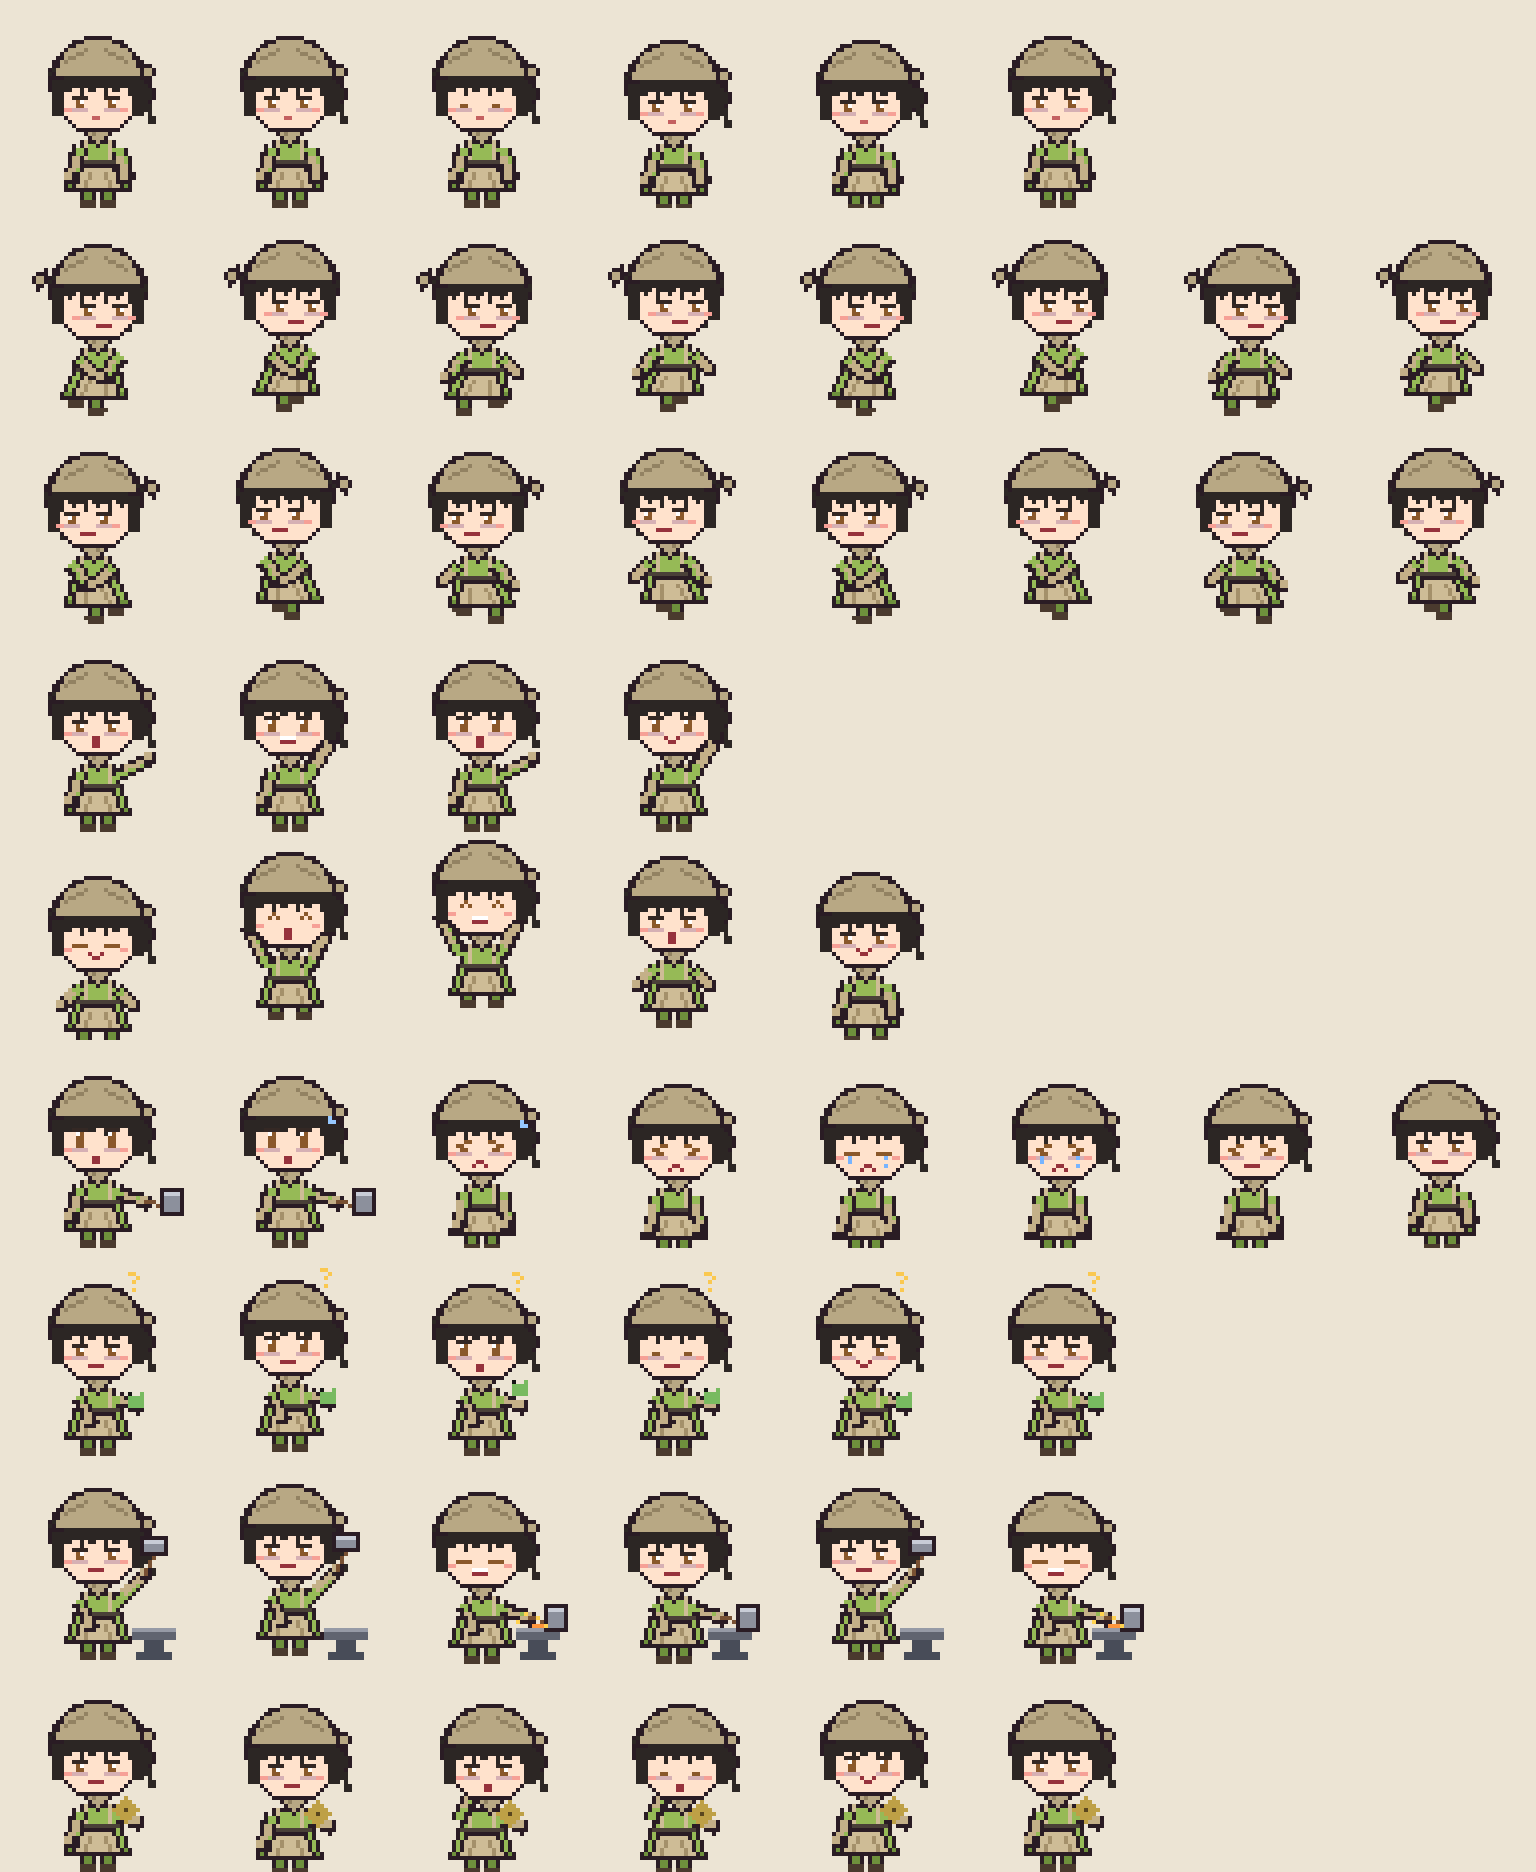
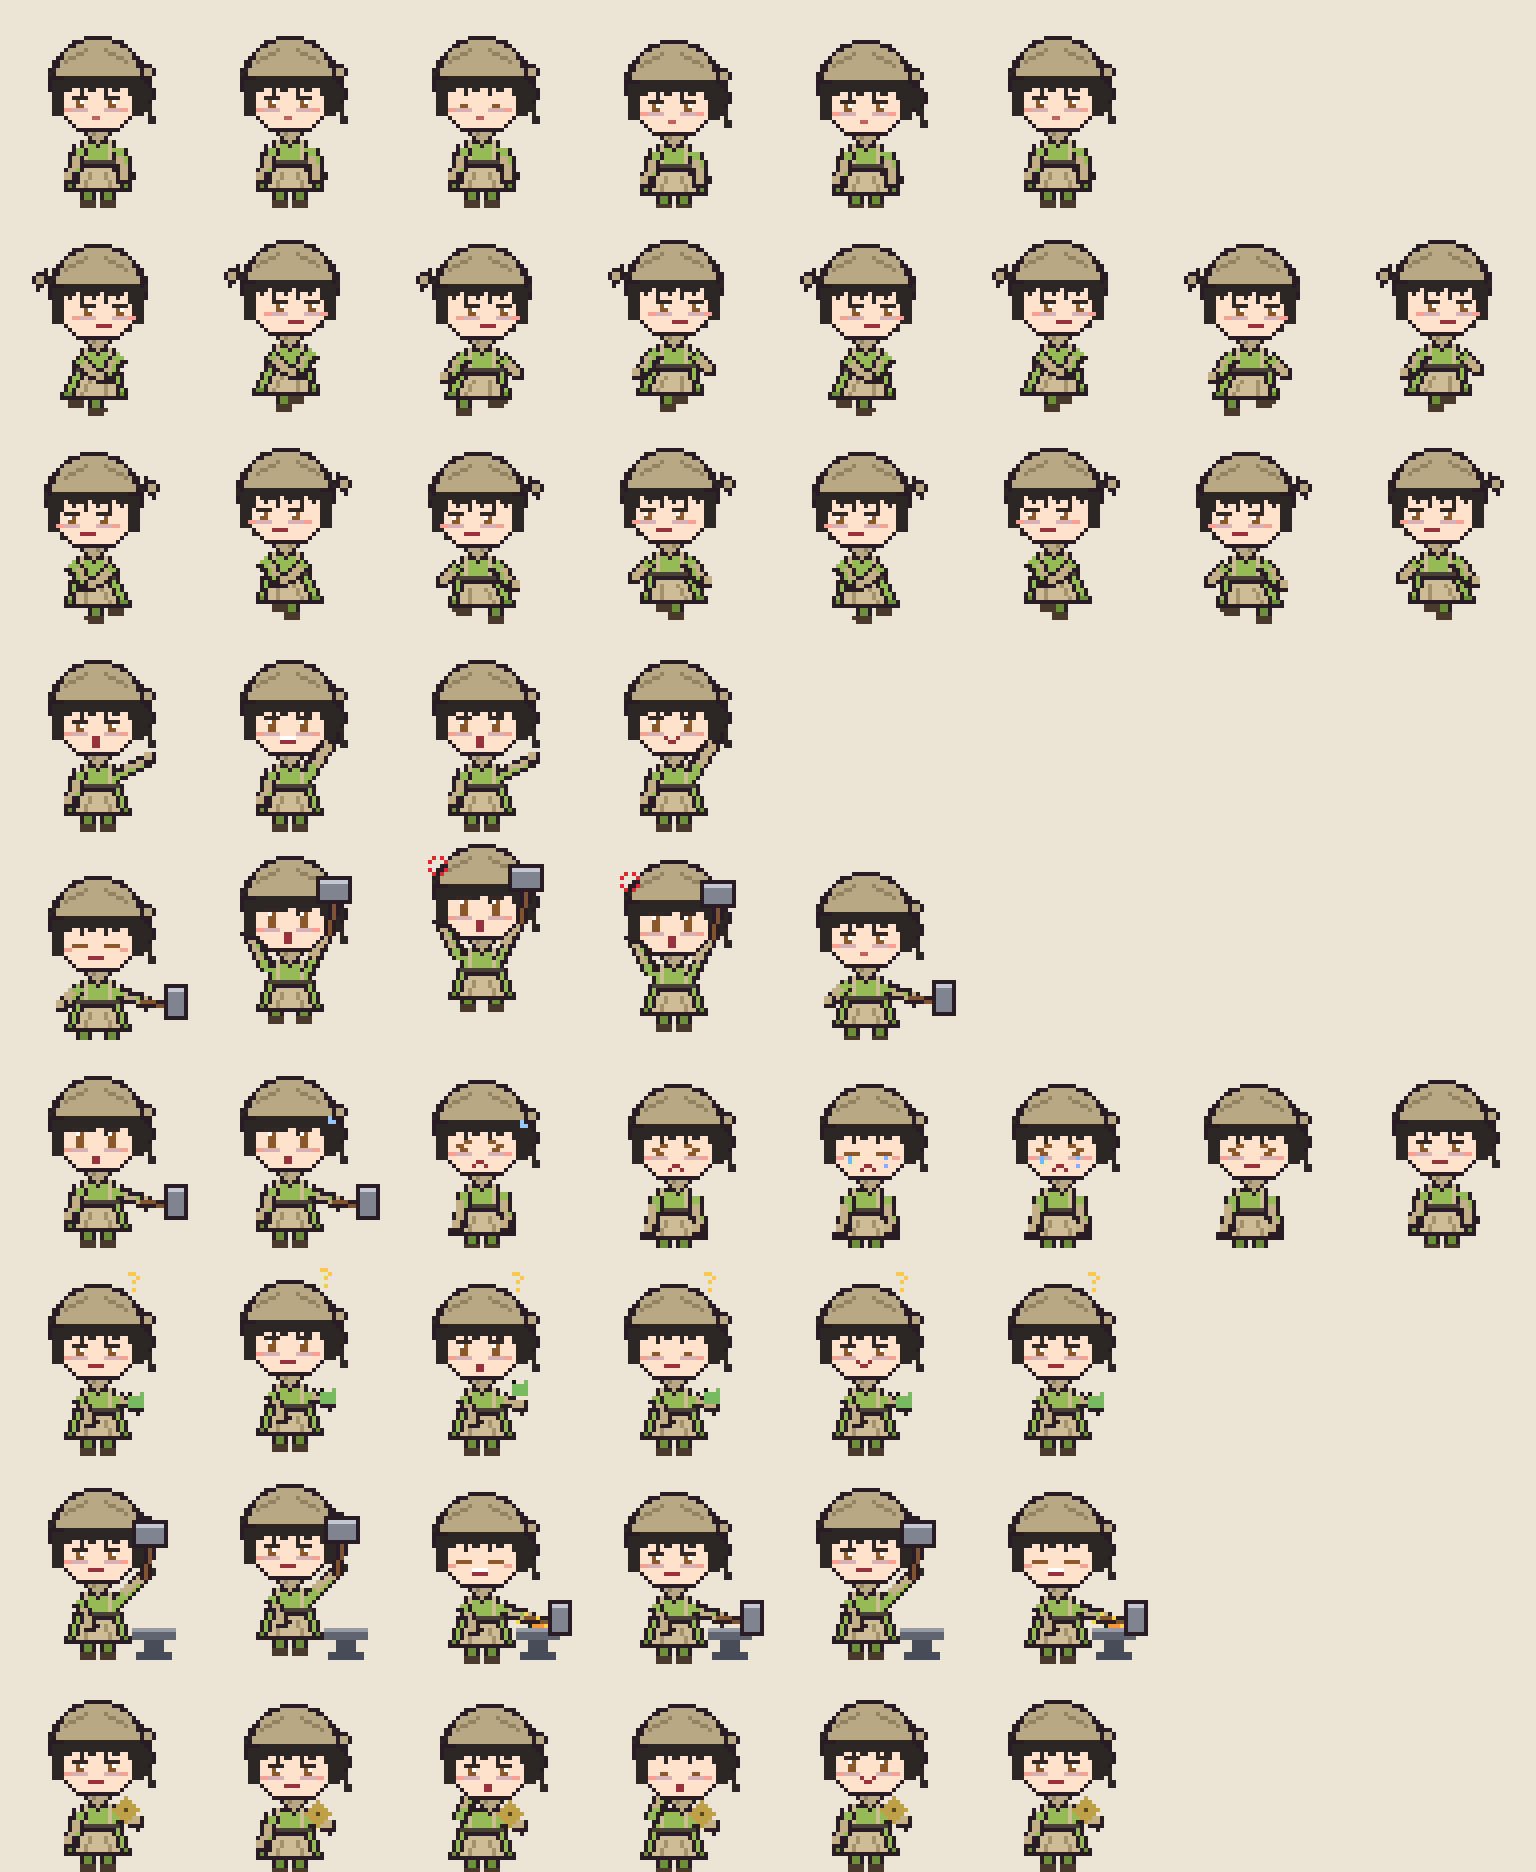
小竹加上大鐵鎚歡呼動作與「裂骨魔」戰鬥造型，網頁可切換造型
Claude-Session: https://claude.ai/code/session_014Ug96dnPv181rpAqSNBU9C

diff --git a/index.html b/index.html
@@ -120,6 +120,7 @@
         <strong id="name"></strong>
         <span id="title"></span>
       </div>
+      <div class="chips" id="outfits" style="margin-top:8px"></div>
       <div class="aff">
         <div class="aff-bar"><div class="aff-fill" id="affFill"></div></div>
         <div class="aff-text"><span id="tier"></span><span id="affNum"></span></div>
@@ -201,7 +202,8 @@
   function loadSave() {
     try { return JSON.parse(localStorage.getItem("mortal-pets") || "{}"); } catch { return {}; }
   }
-  const store = Object.assign({ current: "xiaomei", aff: {} }, loadSave());
+  const store = Object.assign({ current: "xiaomei", aff: {}, outfit: {} }, loadSave());
+  store.outfit = store.outfit || {};
   function persist() {
     try { localStorage.setItem("mortal-pets", JSON.stringify(store)); } catch {}
   }
@@ -328,16 +330,29 @@
     document.documentElement.style.setProperty("--char", c.color);
     document.documentElement.style.setProperty("--char-soft", c.color + "22");
     document.querySelectorAll("#tabs .tab").forEach((t) => t.setAttribute("aria-selected", t.dataset.id === id));
-    sprite.style.backgroundImage = `url(codex/pets/${id}/spritesheet.webp)`;
+    const outfits = c.outfits || [{ id, name: "" }];
+    const petId = outfits.some((o) => o.id === store.outfit[id]) ? store.outfit[id] : outfits[0].id;
+    sprite.style.backgroundImage = `url(codex/pets/${petId}/spritesheet.webp)`;
+    const ob = $("outfits");
+    ob.innerHTML = "";
+    ob.hidden = outfits.length < 2;
+    outfits.forEach((o) => {
+      const b = document.createElement("button");
+      b.className = "chip";
+      b.textContent = o.name;
+      b.setAttribute("aria-pressed", o.id === petId);
+      b.onclick = () => { store.outfit[id] = o.id; persist(); select(id); };
+      ob.append(b);
+    });
     sprite.style.transition = "none";
     sprite.style.left = "50%";
     requestAnimationFrame(() => { sprite.style.transition = ""; });
     $("name").textContent = `${c.name}（${c.fullName}）`;
     $("title").textContent = c.title;
     $("tagline").textContent = c.tagline;
-    $("petPath").textContent = `mortal-pets/codex/pets/${id}/`;
-    $("petJson").href = `codex/pets/${id}/pet.json`;
-    $("petSheet").href = `codex/pets/${id}/spritesheet.webp`;
+    $("petPath").textContent = `mortal-pets/codex/pets/${petId}/`;
+    $("petJson").href = `codex/pets/${petId}/pet.json`;
+    $("petSheet").href = `codex/pets/${petId}/spritesheet.webp`;
     const ul = $("profile");
     ul.innerHTML = "";
     c.profile.forEach((p) => {

diff --git a/claude-plugin/mortal-buddy/scripts/characters.js b/claude-plugin/mortal-buddy/scripts/characters.js
@@ -119,6 +119,10 @@
       fullName: "郁竹",
       title: "崆峒鐵拳門嫡傳女弟子・人稱「裂骨魔」",
       tagline: "身形嬌小、力大無窮；眼神兇是因為近視又沒睡。",
+      outfits: [
+        { id: "xiaozhu", name: "日常・鐵匠" },
+        { id: "xiaozhu-battle", name: "裂骨魔" }
+      ],
       color: "#3e6b47",
       accent: "#8c5c3a",
       profile: [

diff --git a/tools/build_sprites.py b/tools/build_sprites.py
@@ -85,6 +85,14 @@ CHARACTERS = {
     },
 }
 
+# 小竹・裂骨魔：同一個人，換上鐵網護甲、虎紋背帶、虎頭面具與機關臂，背著刻紅紋的大刀
+CHARACTERS["xiaozhu-battle"] = {
+    **CHARACTERS["xiaozhu"],
+    "displayName": "小竹・裂骨魔",
+    "description": "郁竹的戰鬥裝束：鐵網護甲、虎紋背帶、腰掛虎頭面具，機關臂扛著刻了紅紋的大刀。平常睏睏的，掄起兵器就是「裂骨魔」。（活俠傳同人）",
+    "battle": True,
+}
+
 
 def P(**kw):
     base = dict(dy=0, dx=0, eyes=None, mouth="smile", arms=("down", "down"),
@@ -131,6 +139,7 @@ ARM_HANDS = {
     "brow": ((4, -9), (-4, -9)),
     "hold": ((5, 2), (5, 2)),
     "hammer_up": ((7, -7), (7, -7)),
+    "fist_up": ((-5, -10), (5, -10)),
     "hammer_down": ((7, 3), (7, 3)),
     "stir_a": ((5, 5), (3, 6)),
     "stir_b": ((7, 4), (5, 7)),
@@ -155,6 +164,17 @@ def draw_frame(cid, pose):
     hy = 19 + dy
     sx_l, sx_r, sy = 19 + dx, 29 + dx, 35 + dy  # 肩膀
     hip_y = 44 + dy
+
+    battle = c.get("battle", False)
+    holds_weapon = bool(pose["prop"]) and pose["prop"][0] == "hammer"
+    if battle and not holds_weapon:
+        # 斜背在身後的大刀，刀柄在右腰
+        p.line([(37 + dx, 41 + dy), (9 + dx, 9 + dy)], OUTLINE, 5)
+        p.line([(37 + dx, 41 + dy), (9 + dx, 9 + dy)], (176, 178, 186, 255), 3)
+        p.line([(36 + dx, 41 + dy), (8 + dx, 9 + dy)], (226, 228, 234, 255), 1)
+        for k in range(3):
+            p.px(14 + dx + k * 3, 15 + dy + k * 3, (200, 40, 40, 255))
+        p.line([(37 + dx, 41 + dy), (41 + dx, 45 + dy)], (60, 58, 62, 255), 3)
 
     # 後髮
     sway = pose["hair_sway"]
@@ -227,6 +247,25 @@ def draw_frame(cid, pose):
         p.line([(26 + dx, 41 + dy), (27 + dx + flare, 44 + dy)], c["accent_sh"])
         p.rect(19 + dx, 38 + dy, 29 + dx, 38 + dy, c["belt"])
 
+    if battle:
+        # 鐵網護甲
+        p.rect(20 + dx, 33 + dy, 28 + dx, 38 + dy, (198, 182, 140, 255))
+        for gx in range(20, 29, 2):
+            p.line([(gx + dx, 33 + dy), (gx + dx, 38 + dy)], (96, 86, 70, 255))
+        for gy in range(33, 39, 2):
+            p.line([(20 + dx, gy + dy), (28 + dx, gy + dy)], (96, 86, 70, 255))
+        # 虎紋背帶
+        p.line([(19 + dx, 33 + dy), (29 + dx, 41 + dy)], (232, 160, 40, 255), 2)
+        for k in (1, 4, 7):
+            p.px(19 + dx + k + 1, 33 + dy + k, (30, 24, 20, 255))
+        # 左腰的虎頭面具
+        mx0, my0 = 13 + dx, 39 + dy
+        p.rect(mx0 - 1, my0 - 1, mx0 + 5, my0 + 5, OUTLINE)
+        p.rect(mx0, my0, mx0 + 4, my0 + 4, (214, 132, 60, 255))
+        p.px(mx0 + 1, my0 + 1, (30, 24, 20, 255)); p.px(mx0 + 3, my0 + 1, (30, 24, 20, 255))
+        p.line([(mx0 + 1, my0 + 3), (mx0 + 3, my0 + 3)], (120, 60, 30, 255))
+        p.px(mx0, my0 - 1, (214, 132, 60, 255)); p.px(mx0 + 4, my0 - 1, (214, 132, 60, 255))
+
     # 手臂
     al, ar = pose["arms"]
 
@@ -239,8 +278,9 @@ def draw_frame(cid, pose):
         hand = c["skin"]
         if "glove" in c:  # 短袖，前臂到手掌是長手套
             mx, my = (sx * 2 + ex) // 3, (sy * 2 + ey) // 3
-            p.line([(mx, my), (ex, ey)], c["glove"], 2)
-            hand = c["glove"]
+            metal = c.get("battle") and side == 1
+            p.line([(mx, my), (ex, ey)], (128, 124, 116, 255) if metal else c["glove"], 2)
+            hand = (204, 164, 70, 255) if metal else c["glove"]
         p.rect(ex - 1, ey - 1, ex + 1, ey + 1, OUTLINE)
         p.rect(ex - 1, ey - 1, ex, ey, hand)
         return ex, ey
@@ -370,19 +410,32 @@ def draw_frame(cid, pose):
     prop = pose["prop"]
     if prop:
         kind = prop[0]
-        if kind == "hammer":
+        if kind == "hammer" and battle:
+            # 大刀：舉起時刀尖朝上，劈下時朝右下
+            x, y = hand_r
+            tip = (x + 3, max(1, y - 17)) if prop[1] == "up" else (min(46, x + 10), y + 7)
+            p.line([(x, y), tip], OUTLINE, 5)
+            p.line([(x, y), tip], (176, 178, 186, 255), 3)
+            p.line([(x + 1, y), (tip[0] + 1, tip[1])], (226, 228, 234, 255), 1)
+            mx_, my_ = (x + tip[0]) // 2, (y + tip[1]) // 2
+            p.px(mx_, my_, (200, 40, 40, 255)); p.px(mx_ + (1 if prop[1] == "up" else -1), my_ + 2, (200, 40, 40, 255))
+            p.rect(x - 1, y - 1, x + 1, y + 1, (204, 164, 70, 255))
+        elif kind == "hammer":
             # prop[1] = 'up' / 'down'
+            wood, iron, shine = (128, 84, 50, 255), (128, 132, 144, 255), (196, 200, 210, 255)
             x, y = hand_r
             if prop[1] == "up":
-                p.line([(x, y), (x + 2, y - 5)], (120, 80, 50, 255), 1)
-                p.rect(x - 1, y - 9, x + 5, y - 5, OUTLINE)
-                p.rect(x, y - 8, x + 4, y - 6, (140, 144, 156, 255))
-                p.line([(x, y - 8), (x + 4, y - 8)], (200, 204, 214, 255))
+                p.line([(x, y + 1), (x + 1, y - 7)], OUTLINE, 3)
+                p.line([(x, y + 1), (x + 1, y - 7)], wood, 1)
+                p.rect(x - 3, y - 13, x + 5, y - 7, OUTLINE)
+                p.rect(x - 2, y - 12, x + 4, y - 8, iron)
+                p.line([(x - 2, y - 12), (x + 4, y - 12)], shine)
             else:
-                p.line([(x, y), (x + 5, y + 1)], (120, 80, 50, 255), 1)
-                p.rect(x + 4, y - 3, x + 9, y + 3, OUTLINE)
-                p.rect(x + 5, y - 2, x + 8, y + 2, (140, 144, 156, 255))
-                p.line([(x + 5, y - 2), (x + 8, y - 2)], (200, 204, 214, 255))
+                p.line([(x - 1, y), (x + 6, y + 1)], OUTLINE, 3)
+                p.line([(x - 1, y), (x + 6, y + 1)], wood, 1)
+                p.rect(x + 5, y - 4, x + 10, y + 4, OUTLINE)
+                p.rect(x + 6, y - 3, x + 9, y + 3, iron)
+                p.line([(x + 6, y - 3), (x + 9, y - 3)], shine)
         elif kind == "pot":
             ax, y0 = 36 + dx, 41 + dy
             p.rect(ax - 5, y0, ax + 4, y0 + 5, (70, 60, 60, 255))
@@ -434,6 +487,11 @@ def draw_frame(cid, pose):
             col = (240, 80, 110, 255)
             for ox, oy in ((0, 0), (2, 0), (-1, 1), (0, 1), (1, 1), (2, 1), (3, 1), (0, 2), (1, 2), (2, 2), (1, 3)):
                 p.px(x + ox, y + oy, col)
+        elif f == "anger":  # 生氣記號，貼在頭的左上
+            x, y = hx - 13, hy - 9
+            col = (220, 40, 50, 255)
+            for ox, oy in ((0, 1), (1, 0), (3, 0), (4, 1), (0, 3), (1, 4), (3, 4), (4, 3)):
+                p.px(x + ox, y + oy, col)
         elif f == "q":  # 等待：頭上小問號（貼著頭頂）
             x, y = hx + 8, hy - 15
             col = (250, 200, 80, 255)
@@ -475,13 +533,23 @@ def poses_for(cid):
         P(arms=("down", "wave_up"), mouth="smile", eyes="wink" if mei else "open", blush=not mei),
     ]
     # 4 jumping：預備、起跳、頂點、落下、站穩
-    rows["jumping"] = [
-        P(dy=2, legs="crouch", arms=("hip", "hip"), eyes="closed"),
-        P(dy=-4, legs="tuck", arms=("up", "up"), mouth="open", eyes="happy"),
-        P(dy=-7, legs="tuck", arms=("up", "up"), mouth="grin", eyes="happy", fx=("heart",) if mei else ()),
-        P(dy=-3, legs="stand", arms=("hip", "hip"), mouth="open"),
-        P(dy=1, legs="crouch", arms=("down", "down"), mouth="smile"),
-    ]
+    if mei:
+        rows["jumping"] = [
+            P(dy=2, legs="crouch", arms=("hip", "hip"), eyes="closed"),
+            P(dy=-4, legs="tuck", arms=("up", "up"), mouth="open", eyes="happy"),
+            P(dy=-7, legs="tuck", arms=("up", "up"), mouth="grin", eyes="happy", fx=("heart",)),
+            P(dy=-3, legs="stand", arms=("hip", "hip"), mouth="open"),
+            P(dy=1, legs="crouch", arms=("down", "down"), mouth="smile"),
+        ]
+    else:
+        # 依官方圖：一手握拳、一手高舉大鐵鎚，張嘴大喊
+        rows["jumping"] = [
+            P(dy=2, legs="crouch", arms=("hip", "hammer_down"), prop=("hammer", "down"), eyes="closed", mouth="flat"),
+            P(dy=-3, legs="tuck", arms=("up", "fist_up"), prop=("hammer", "up"), eyes="wide", mouth="open"),
+            P(dy=-6, legs="tuck", arms=("up", "fist_up"), prop=("hammer", "up"), eyes="wide", mouth="open", fx=("anger",)),
+            P(dy=-2, legs="stand", arms=("up", "fist_up"), prop=("hammer", "up"), eyes="wide", mouth="open", fx=("anger",)),
+            P(dy=1, legs="crouch", arms=("hip", "hammer_down"), prop=("hammer", "down"), eyes="drowsy", mouth="small"),
+        ]
     # 5 failed
     if mei:
         rows["failed"] = [
@@ -578,7 +646,7 @@ def render_rows(cid):
         frames = []
         for pose in rows[state]:
             img = draw_frame(cid, pose)
-            if pose.get("anvil"):
+            if pose.get("anvil") and not CHARACTERS[cid].get("battle"):
                 # 鐵砧墊在角色後方：另畫一張再疊上
                 anvil = draw_anvil(cid, glowing="spark" in pose["fx"])
                 base = Image.new("RGBA", img.size, (0, 0, 0, 0))
